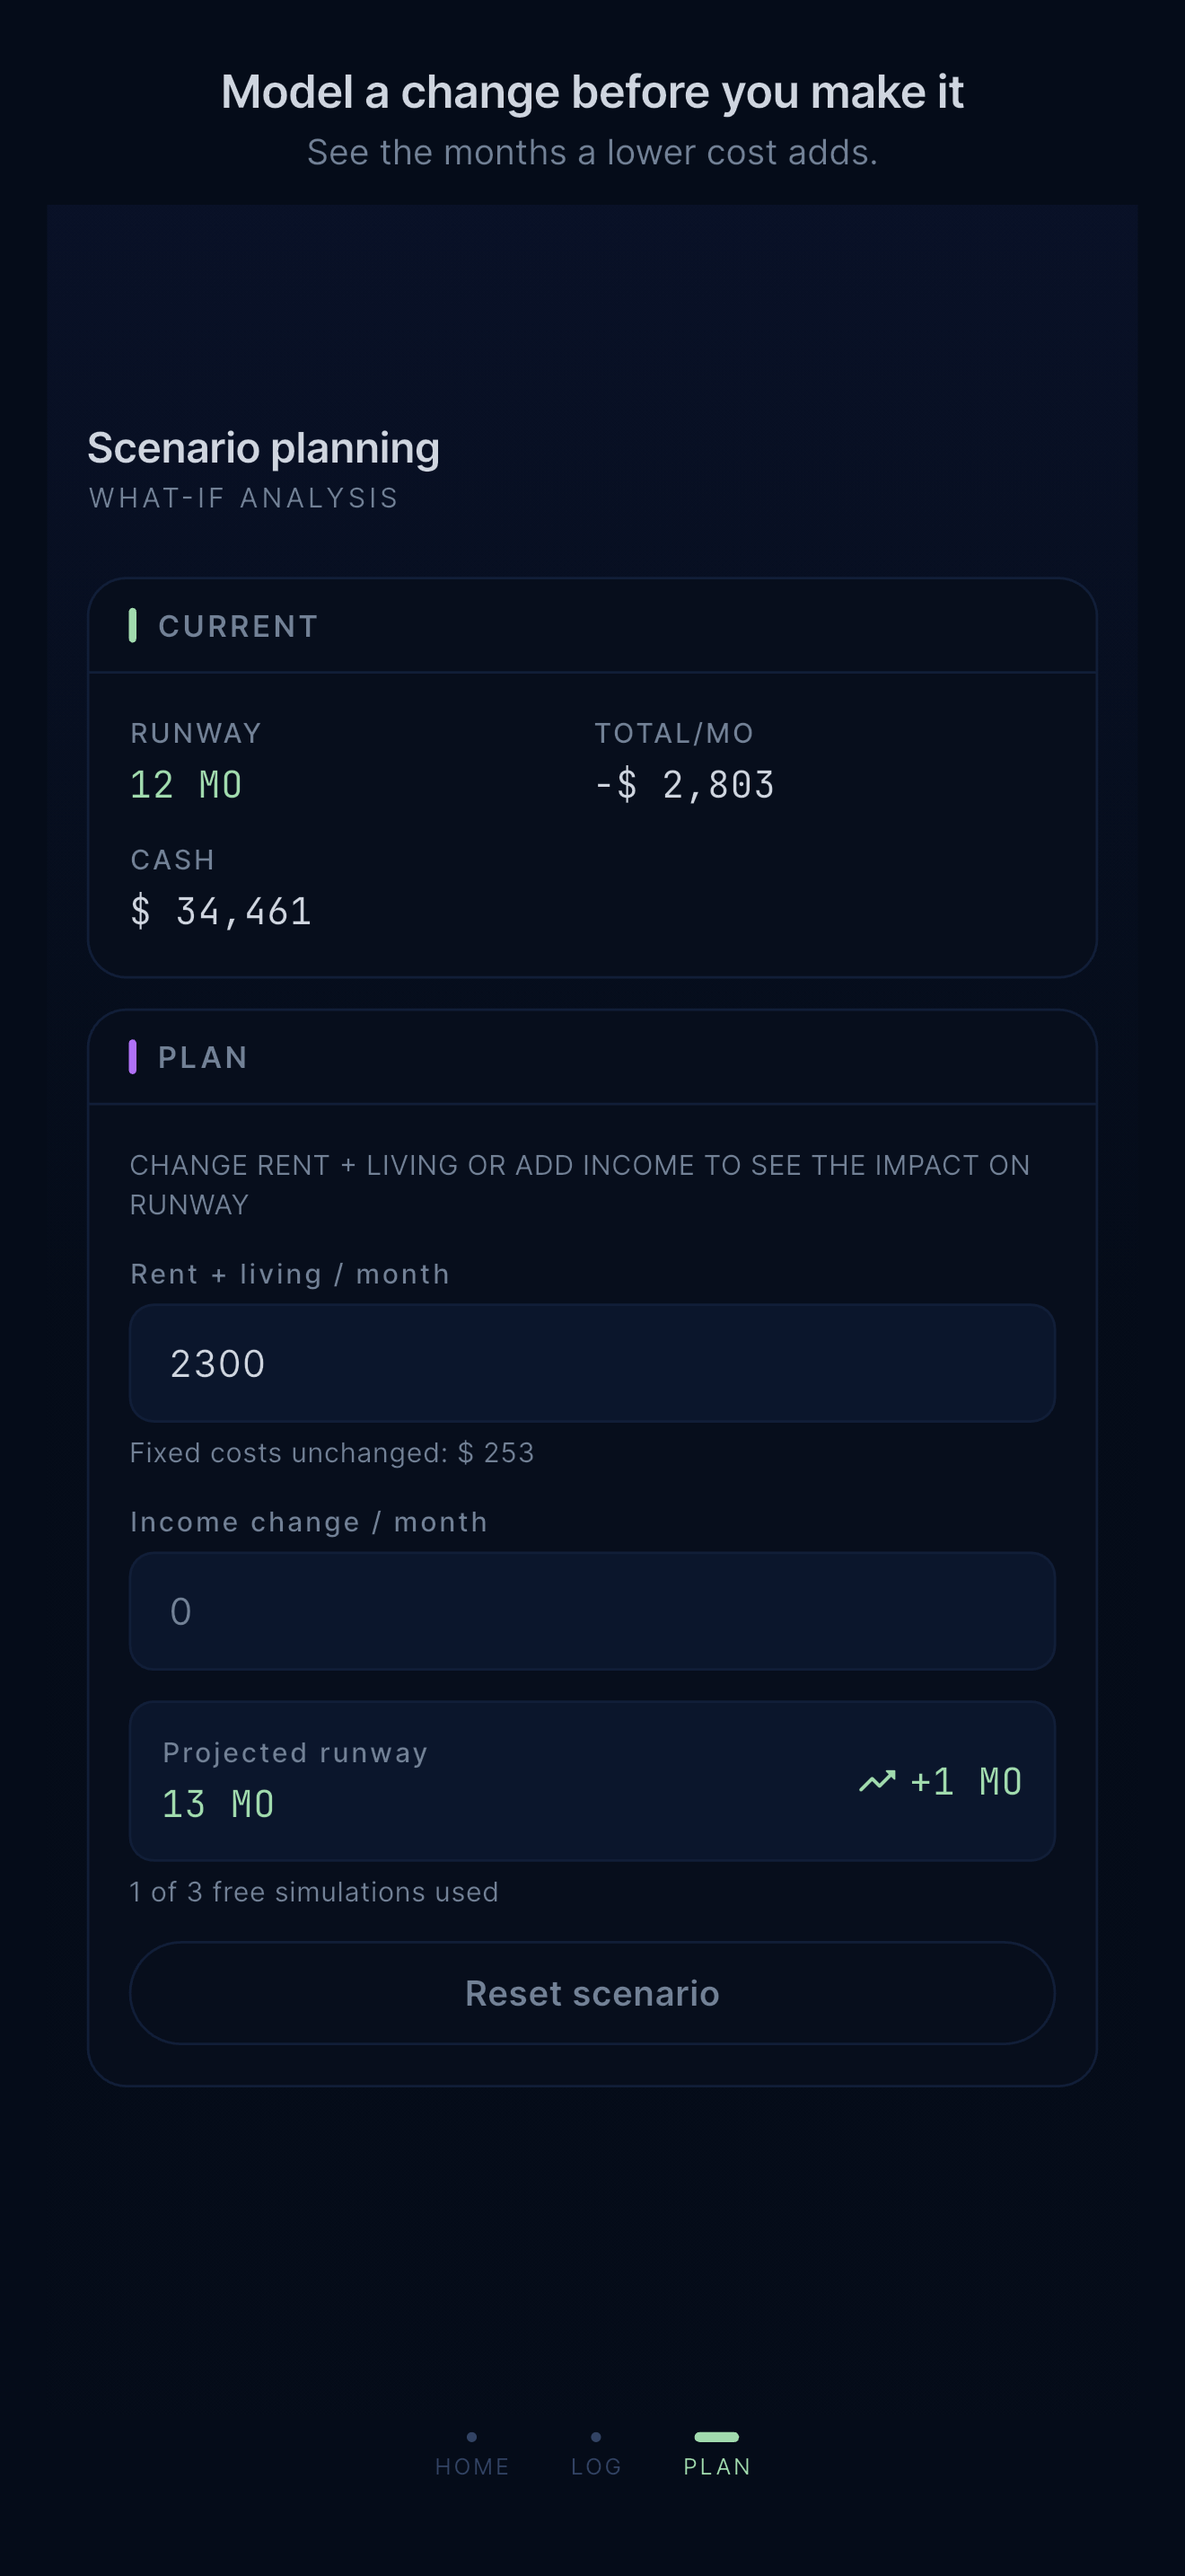
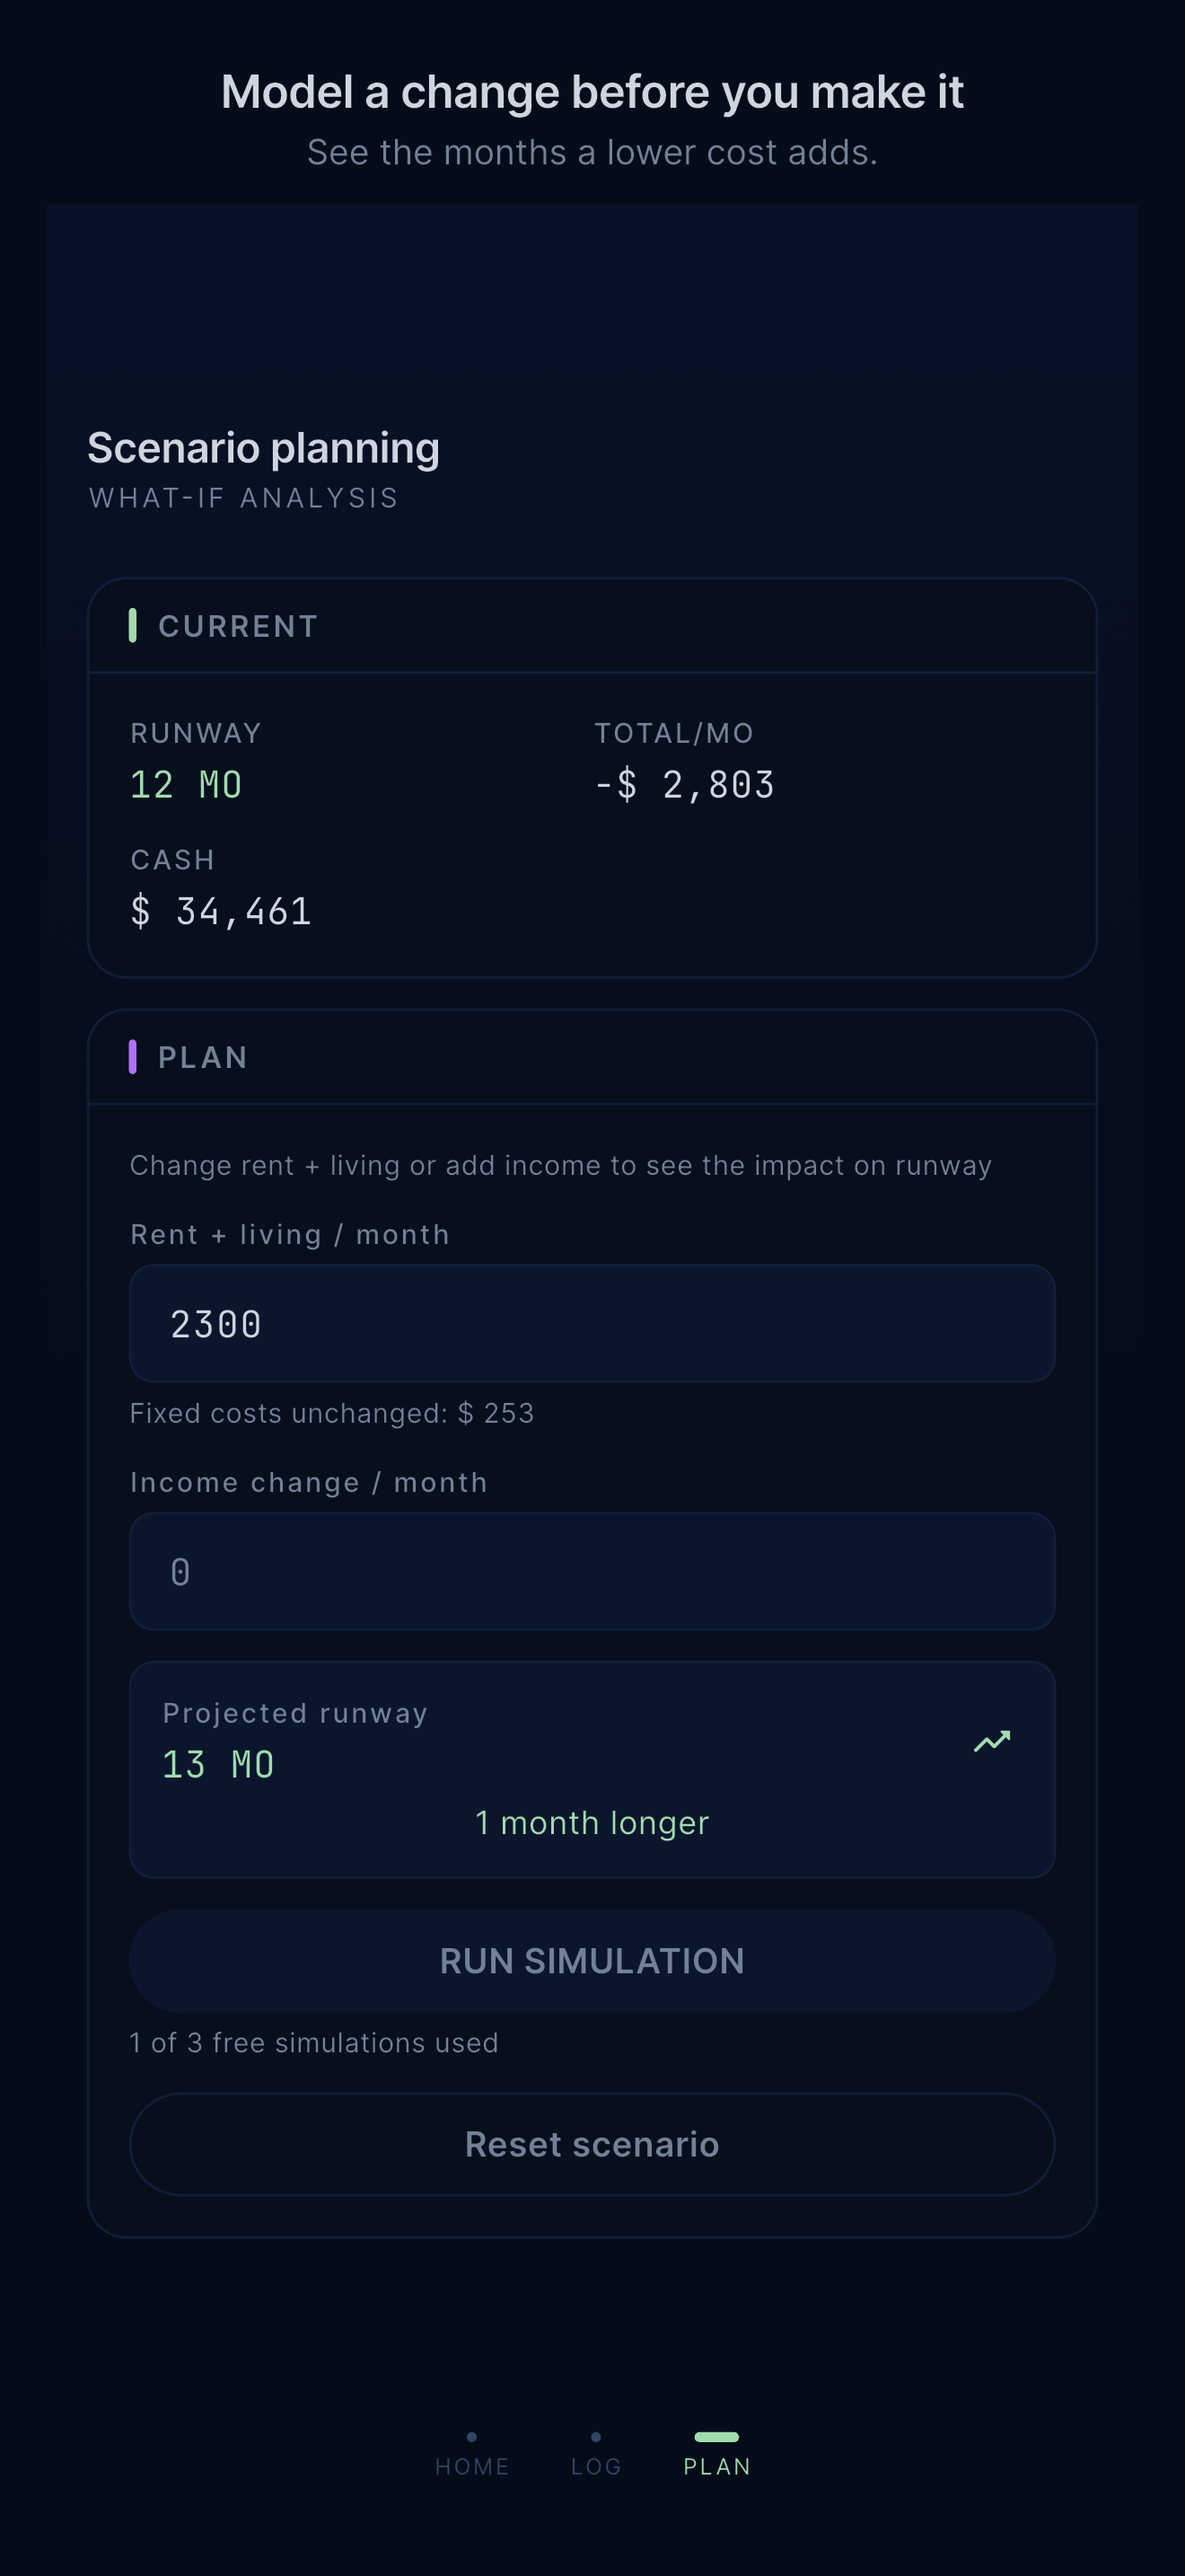
fix(l10n): one month is not "1 months", and the store set is recaptured
The Plan screen's delta read "1 months longer". The four delta strings took a
bare placeholder where they needed a plural, and it had already reached a
store screenshot.

English, Spanish and Italian get plural forms on all four. French gets them on
the day forms only, because "mois" does not inflect and "1 mois de plus" was
already right. Japanese and Chinese are untouched, having no plural to get
wrong.

The store set is recaptured on the same simulator at the same size, against
staging with the design work merged. All four frames changed: the typed amount
on the Plan screen is set in the numbers face now rather than the label face,
its hint is a sentence instead of sixty characters of capitals, and the delta
reads correctly. Checksums verified identical across the capture directory,
the copy in docs and the copy the listing is uploaded from.

Claude-Session: https://claude.ai/code/session_01LzA2Gog4pmDHuvfaKeYrQX

diff --git a/packages/design_system/test/l10n/plurals_test.dart b/packages/design_system/test/l10n/plurals_test.dart
@@ -1,0 +1,51 @@
+import 'package:design_system/design_system.dart';
+import 'package:flutter/material.dart';
+import 'package:flutter_test/flutter_test.dart';
+
+/// The Plan screen's delta read "1 months longer", and it reached a store
+/// screenshot. The strings took a bare placeholder where they needed a plural.
+Future<AppLocalizations> _l10n(WidgetTester tester, Locale locale) async {
+  late AppLocalizations l10n;
+  await tester.pumpWidget(
+    MaterialApp(
+      locale: locale,
+      localizationsDelegates: AppLocalizations.localizationsDelegates,
+      supportedLocales: AppLocalizations.supportedLocales,
+      home: Builder(
+        builder: (context) {
+          l10n = AppLocalizations.of(context);
+          return const SizedBox();
+        },
+      ),
+    ),
+  );
+  await tester.pumpAndSettle();
+  return l10n;
+}
+
+void main() {
+  testWidgets('one of something is singular in English', (tester) async {
+    final l10n = await _l10n(tester, const Locale('en'));
+    expect(l10n.deltaMonthsLonger(1), '1 month longer');
+    expect(l10n.deltaMonthsLonger(3), '3 months longer');
+    expect(l10n.deltaMonthsShorter(1), '1 month shorter');
+    expect(l10n.deltaDaysLonger(1), '1 day longer');
+    expect(l10n.deltaDaysShorter(2), '2 days shorter');
+  });
+
+  testWidgets('and in the other languages that inflect', (tester) async {
+    expect(
+      (await _l10n(tester, const Locale('es'))).deltaMonthsLonger(1),
+      '1 mes más',
+    );
+    expect(
+      (await _l10n(tester, const Locale('it'))).deltaMonthsLonger(1),
+      '1 mese in più',
+    );
+    // French "mois" does not inflect, but "jour" does.
+    expect(
+      (await _l10n(tester, const Locale('fr'))).deltaDaysLonger(1),
+      '1 jour de plus',
+    );
+  });
+}
